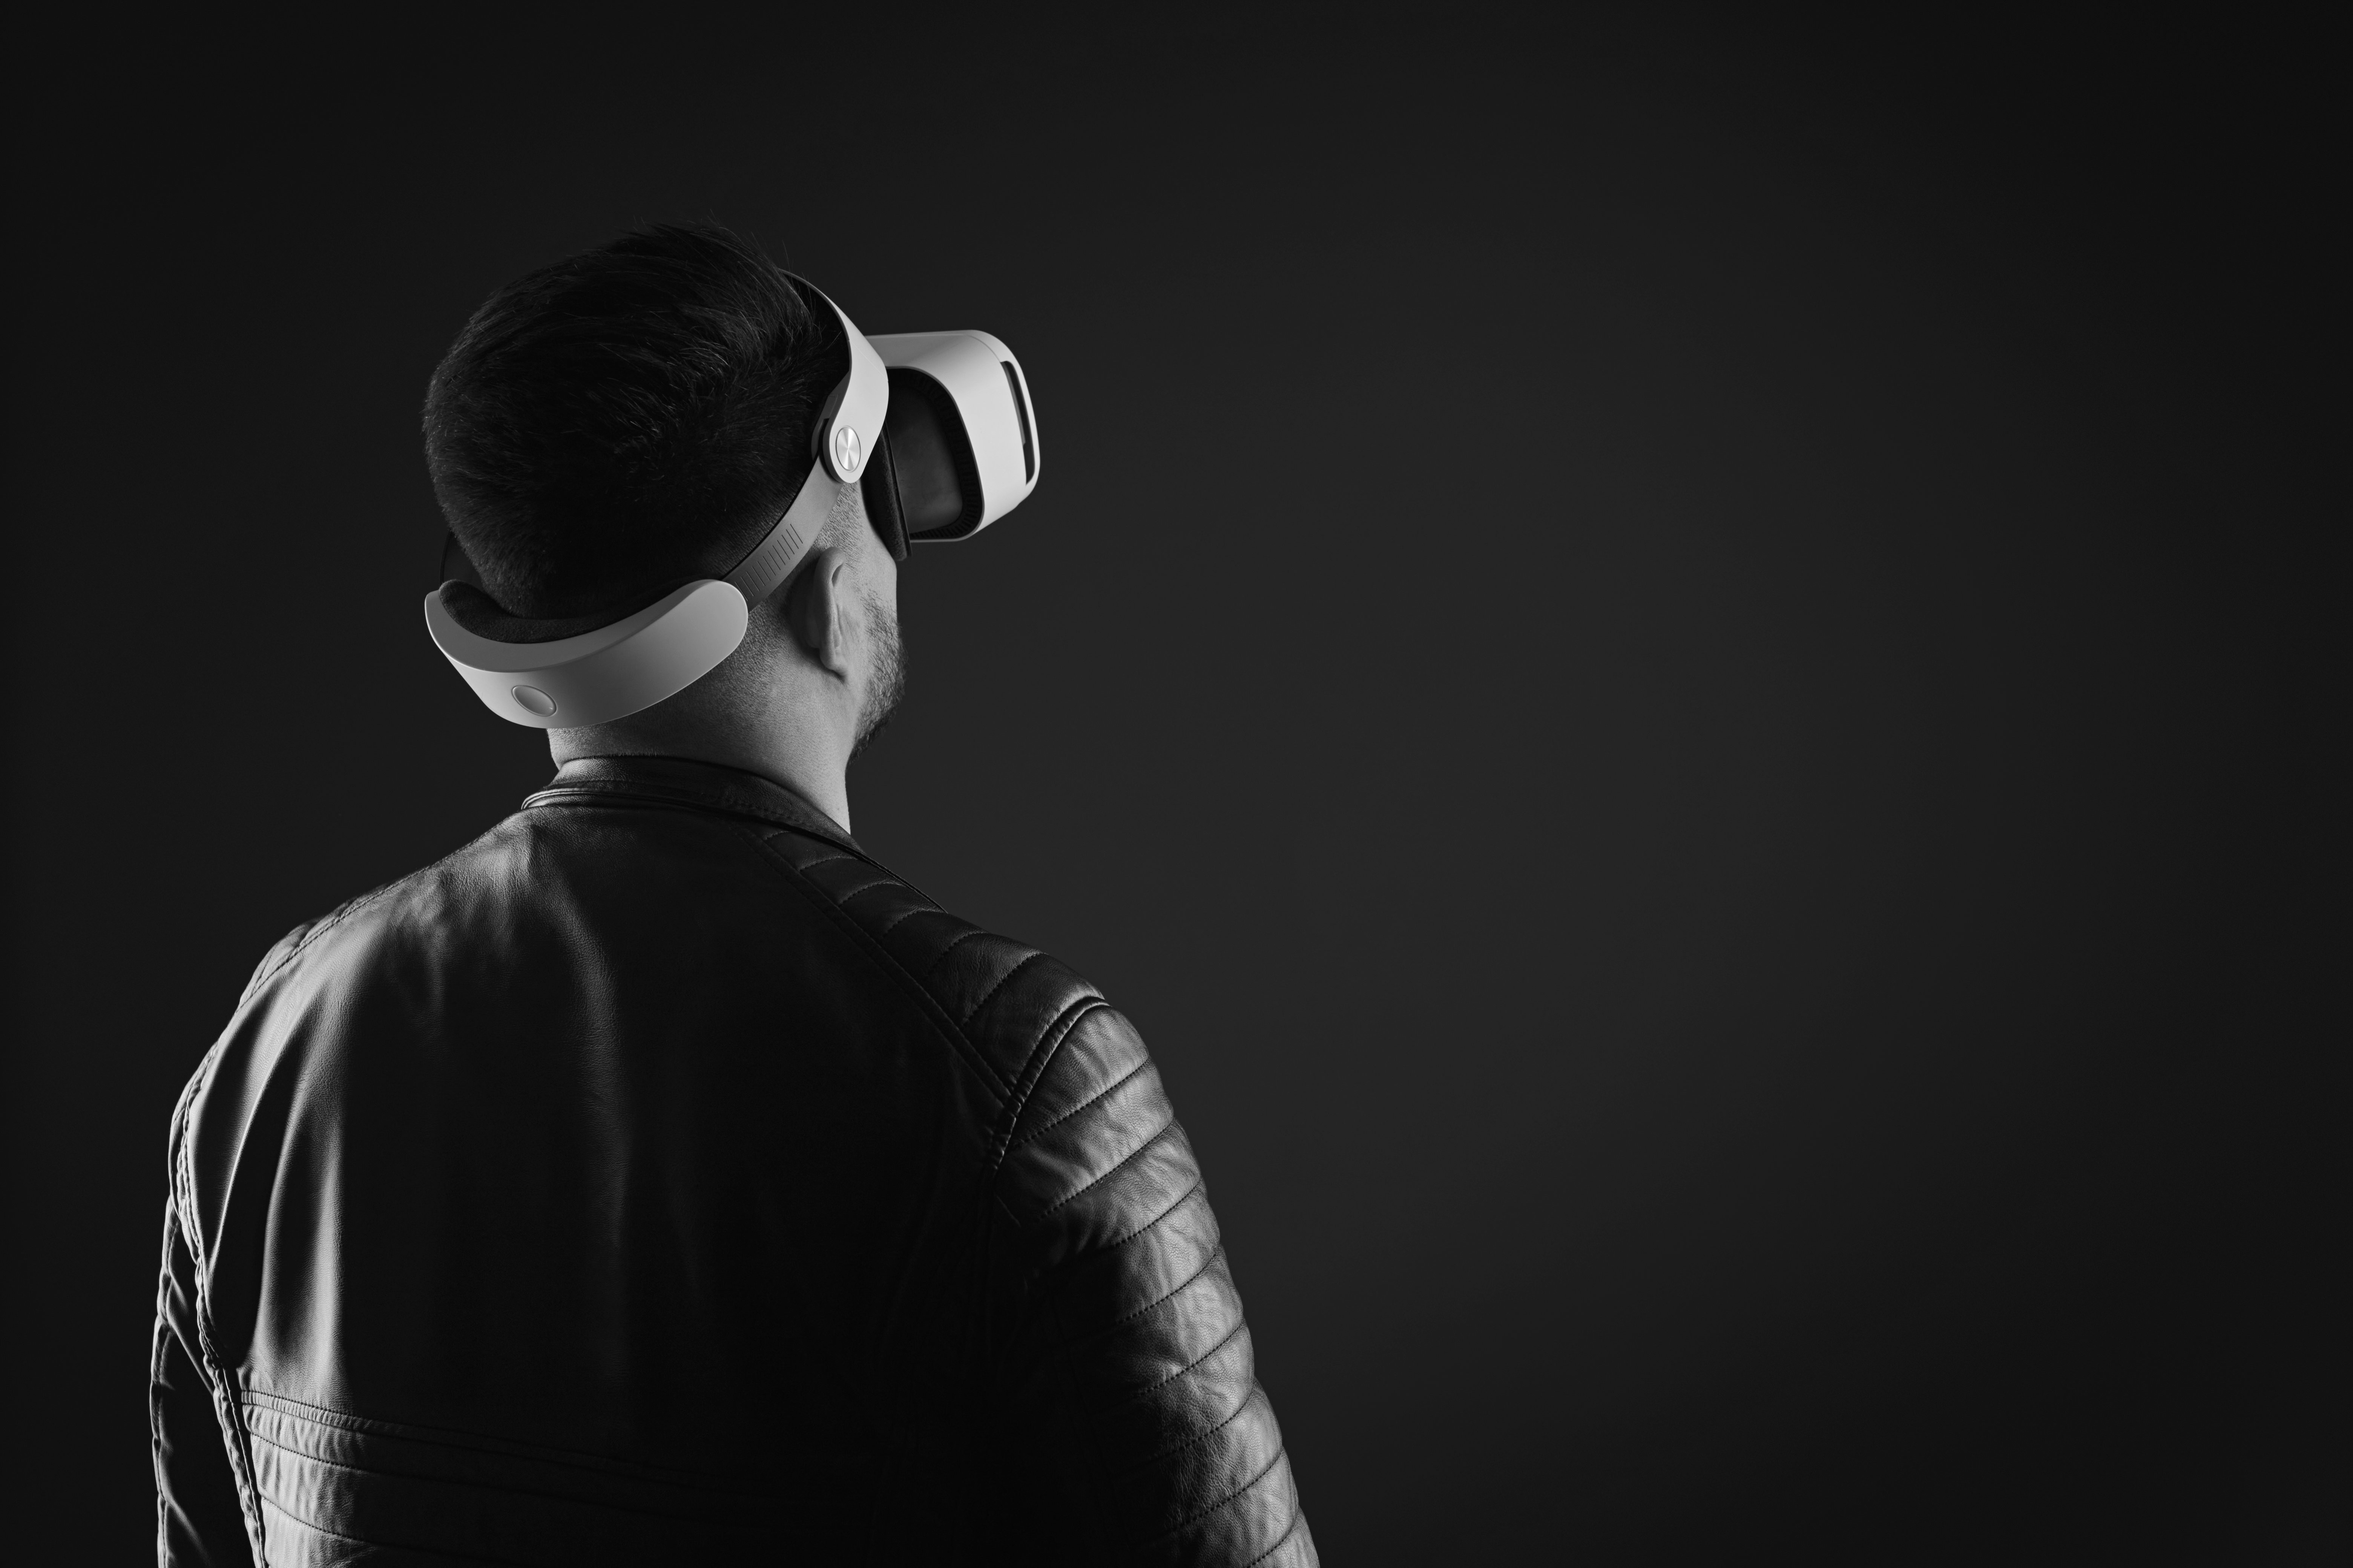
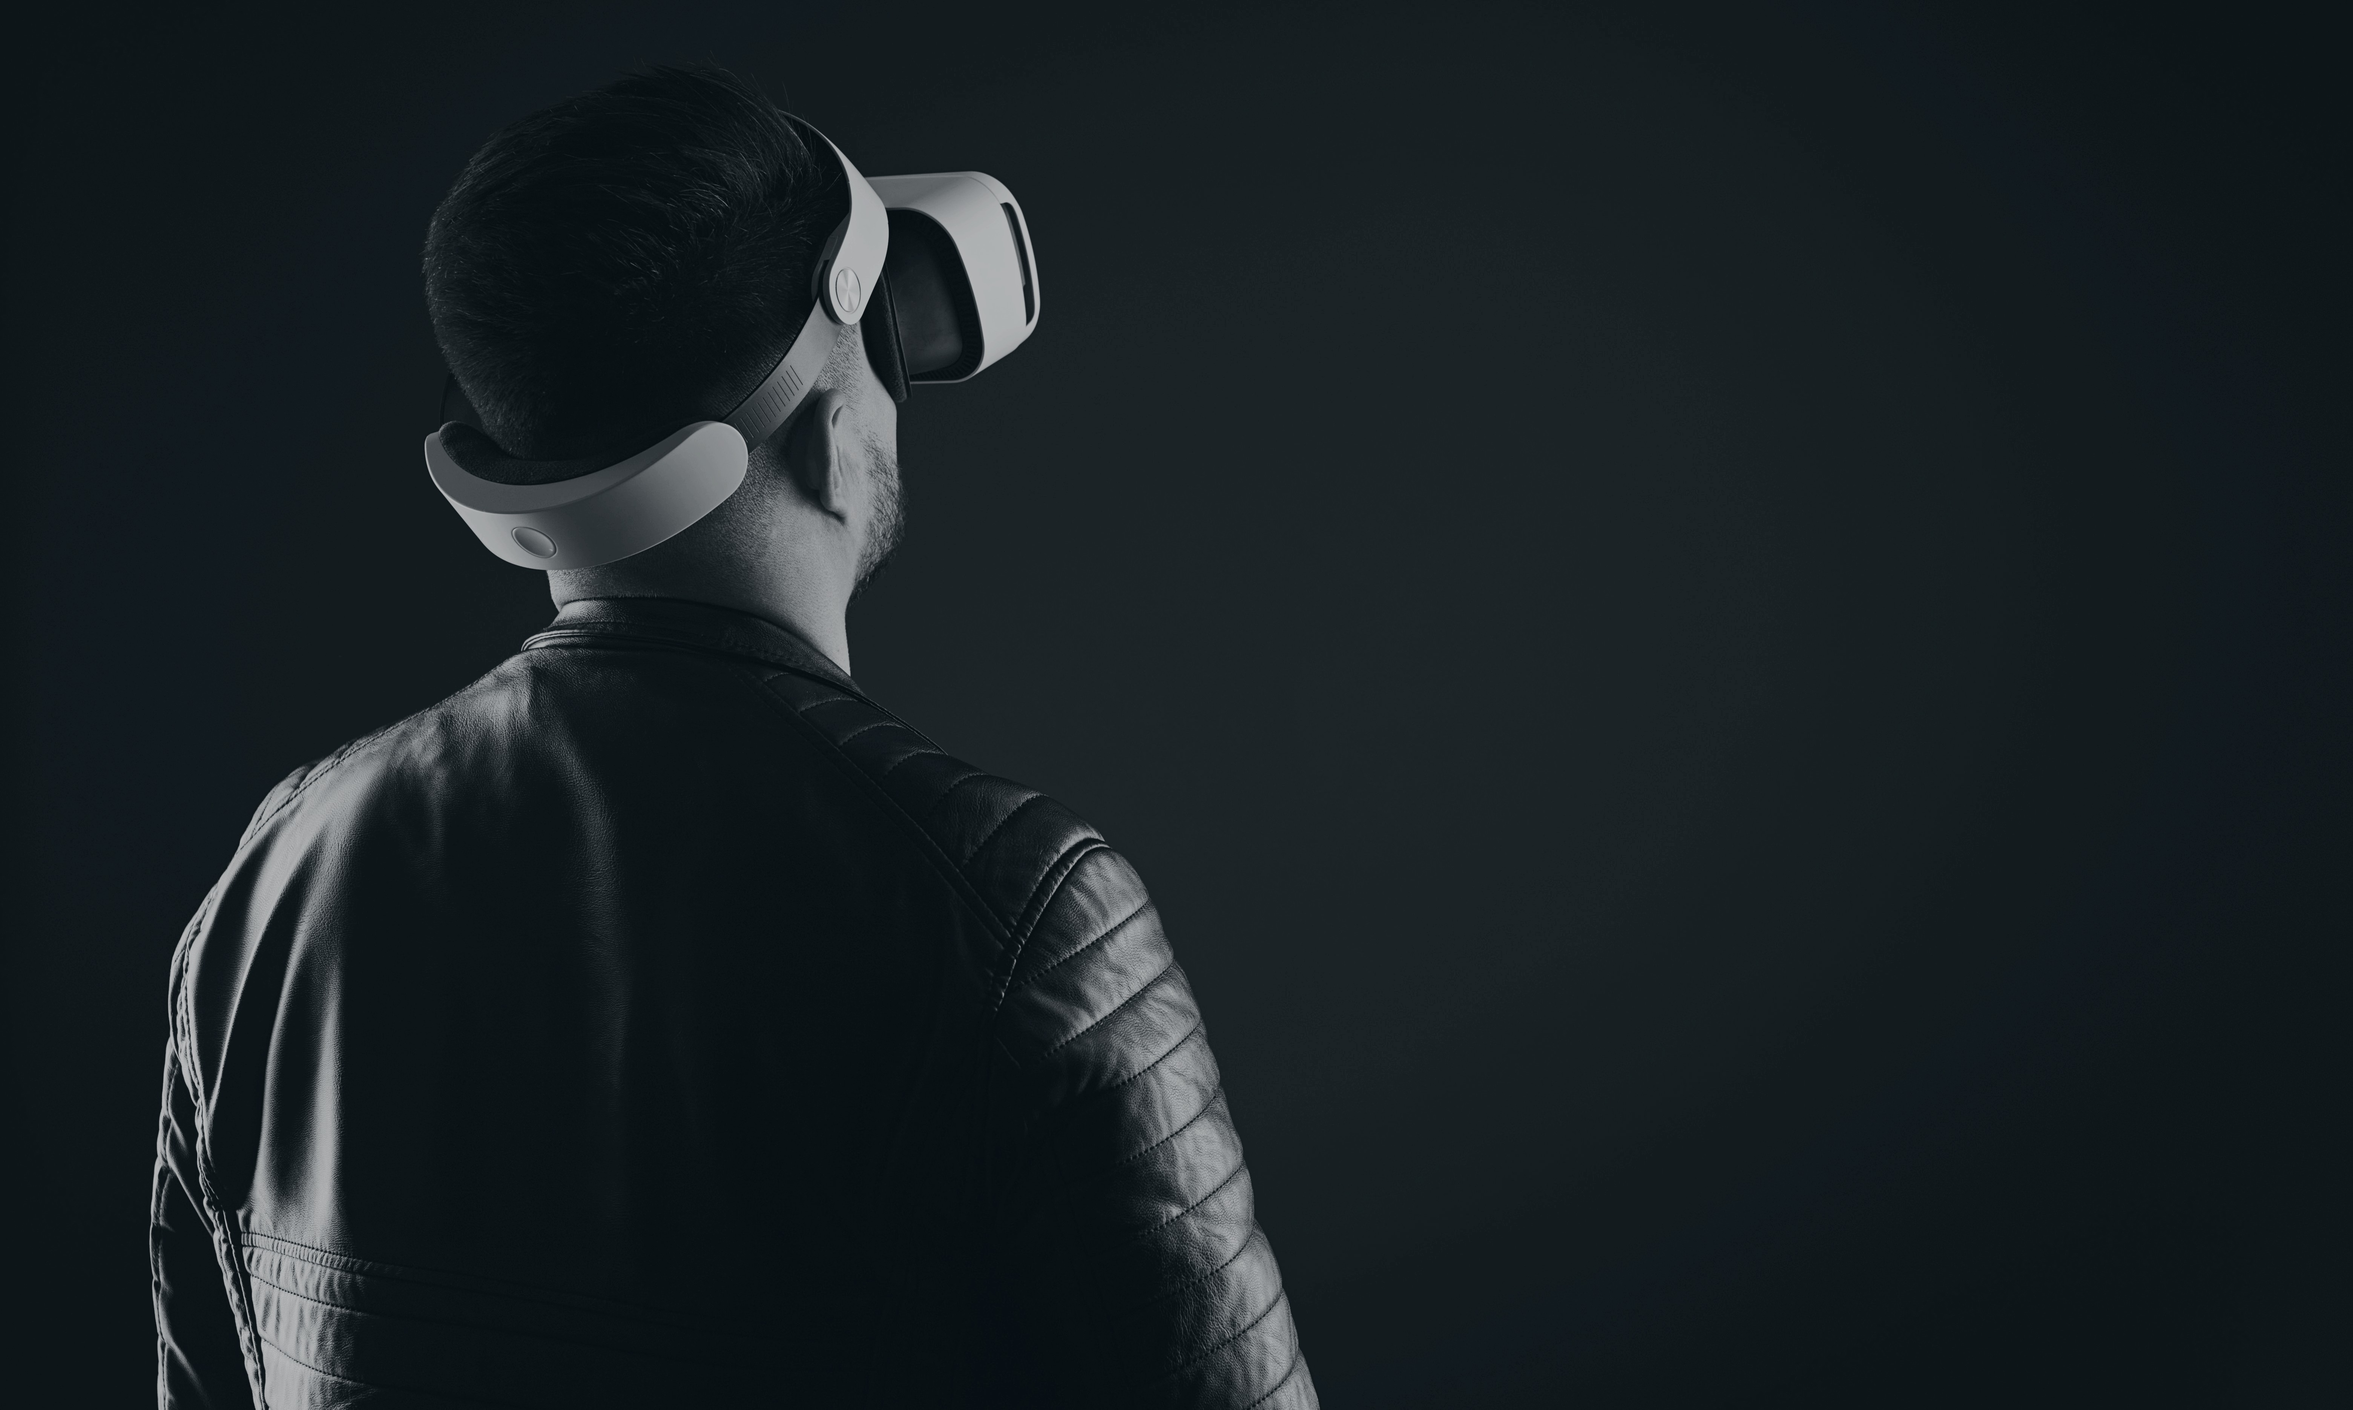
edited portfolio

Changed region(s): [[0.0625, 0.0931, 0.5625, 1.0], [0.1875, 0.1861, 0.2188, 0.2172]]

diff --git a/src/components/Portfolio.js b/src/components/Portfolio.js
@@ -9,7 +9,7 @@ export default function Portfolio() {
 
   return (
     <section id="portfolio" className="portfolio__section">
-        <h1 className="portfolio__header">What we do</h1>
+        <h1 className="portfolio__header">What we do.</h1>
         <div className="portfolio__wrapper">
           <div className="portfolio__video__wrapper">
             <div className="portfolio__video">
@@ -17,7 +17,7 @@ export default function Portfolio() {
             </div>
             <div className="portfolio__video__text">
               <span>Lorem ipsum dolor sit amet, consectetur adipiscing elit. Sed accumsan, urna eu viverra pharetra, enim justo pharetra tellus, nec rhoncus nisi nunc non purus. Aliquam.</span>
-              <button className="portfolio__button">Watch here</button>
+              <button className="portfolio__button">Watch video</button>
             </div>
           </div>
           <div className="portfolio__video__wrapper">
@@ -26,7 +26,7 @@ export default function Portfolio() {
             </div>
             <div className="portfolio__video__text">
               <span>Lorem ipsum dolor sit amet, consectetur adipiscing elit. Maecenas cursus dui est, in fermentum nisl pellentesque eget. Nunc pellentesque aliquam tellus id volutpat. Aliquam porta.</span>
-              <button className="portfolio__button">Watch here</button>
+              <button className="portfolio__button">Watch video</button>
             </div>
           </div>
           <div className="portfolio__video__wrapper">
@@ -35,12 +35,12 @@ export default function Portfolio() {
             </div>
             <div className="portfolio__video__text">
               <span>Lorem ipsum dolor sit amet, consectetur adipiscing elit. Maecenas odio risus, gravida nec elit at, vestibulum gravida orci. Proin id augue sem. Duis vel nisl.</span>
-              <button className="portfolio__button">Watch here</button>
+              <button className="portfolio__button">Watch video</button>
             </div>
           </div>
         </div>
         <p>
-          Are you curious about what we can do for you?<br />
+          Are you curious about what we can do for you? &nbsp;
           <a href="#contact">Contact us</a> and let's make something special.
         </p>
     </section>

diff --git a/src/components/Portfolio.css b/src/components/Portfolio.css
@@ -9,7 +9,8 @@
     background: url('../assets/portfolio-bg.jpg');
     background-size: cover;
     background-position: center;
-    color: #c6b893;
+    color: #CCCCCC;
+    position: relative;
     font-family: 'Poppins', sans-serif;
 }
 
@@ -29,14 +30,14 @@
 
 .portfolio__header {
     color: #CCCCCC;
-    font-size: 2.75em;
+    font-size: 2em;
     font-weight: 500;
     width: 100%;
     max-width: 75em;
     text-align: center;
     padding-block-start: 1em;
     padding-block-end: 0.5em;
-    text-transform: capitalize;
+    text-transform: uppercase;
     text-shadow: 2px 2px black;
 }
 
@@ -49,9 +50,7 @@
     align-items: center;
     flex-wrap: wrap;
     max-width: 100%;
-    padding: 2em;
-    background-color: rgba(34,34,34,0.5);
-    box-shadow: 1px 1px 15px 1px rgba(0, 0, 0, 0.1);
+    gap: 2em;
 }
 
 .portfolio__video__wrapper {
@@ -62,6 +61,10 @@
     gap: 1em;
     margin: 0 auto;
     padding-block-start: 3em;
+    padding: 2em;
+    background-color: rgba(35,40,44, 0.5);
+    box-shadow: 2px 2px 1px 0px rgba(0, 0, 0, 0.1);
+    border-radius: 15px;
 }
 
 .portfolio__video__text {
@@ -89,20 +92,25 @@ video {
     height: 2.5em;
     width: 10em;
     margin: 0 auto;
-    background-color: rgba(34,34,34,255);
-    box-shadow: 1px 1px 15px 1px rgba(0, 0, 0, 0.1);
-    border: 2px solid #CCCCCC;
+    background-color: inherit;
+    box-shadow: 2px 2px 15px 1px rgba(0, 0, 0, 0.1);
+    border: 2px solid #c6b893;
     border-radius: 2em;
-    color: #CCCCCC;
+    color: #c6b893;
     font-family: 'Poppins', sans-serif;
     font-weight: 500;
     cursor: pointer;
+    text-shadow: 2px 2px black;
 }
 
 @media screen and (min-width: 600px) {
     .portfolio__video__wrapper {
         flex-direction: row;
         padding-block-start: 1em;
+    }
+
+    .portfolio__header {
+        font-size: 2.25em;
     }
 
     .portfolio__video__wrapper:nth-child(2) {
@@ -124,6 +132,11 @@ video {
         gap: 2em;
     }
 
+    .portfolio__button {
+        height: 3.5em;
+        width: 12.5em;
+    }
+
   }
 
   @media screen and (min-width: 1000px) {
@@ -131,4 +144,7 @@ video {
         gap: 6em;
     }
   
+    .portfolio__header {
+        font-size: 2.5em;
+    }
   }

diff --git a/src/App.js b/src/App.js
@@ -8,16 +8,11 @@ import AboutUs from "./components/AboutUs";
 import Contact from "./components/Contact";
 import Nav from "./components/Nav";
 import VideoModal from "./components/VideoModal";
-import React, {useState, useRef, useEffect} from 'react';
-import useOnScreen from './hooks/useOnScreen';
+import React, {useState} from 'react';
 
 
 function App() {
   const [expandMenu, setExpandMenu] = useState(false);
-  const [inView, setInView] = useState(false);
-  const ref = useRef();
-  const isVisible = useOnScreen(ref)
-
 
   const handleHamburgerClick = () => {
     setExpandMenu(prevExpandMenu => !prevExpandMenu);
@@ -27,25 +22,16 @@ function App() {
     setExpandMenu(false);
   }
 
-  useEffect(() => {
-    if (isVisible) {
-      setInView(true);
-    } else {
-      setInView(false);
-    }
-  }, [isVisible])
 
 
   return (
     <>
       <VideoModal />
       <header>
-        <Nav expandMenu={expandMenu} onHamburgerClick={handleHamburgerClick} onCloseMenu={handleCloseMenu} inView={inView} />
+        <Nav expandMenu={expandMenu} onHamburgerClick={handleHamburgerClick} onCloseMenu={handleCloseMenu}/>
       </header>
       <main className="main__content" >
-        <div ref={ref}>
-          <Homepage />
-        </div>
+        <Homepage />
         <Portfolio/>
         <ProductIntro />
         <Reviews />

diff --git a/src/components/Nav.js b/src/components/Nav.js
@@ -5,7 +5,7 @@ import hamburger from "../assets/menu-2.svg";
 import useOutsideClick from "../hooks/useOutsideClick.js";
 import useCloseOnEsc from '../hooks/useCloseOnEsc';
 
-export default function Nav({expandMenu, onHamburgerClick, onCloseMenu, inView}) {
+export default function Nav({expandMenu, onHamburgerClick, onCloseMenu}) {
     const ref = useRef();
 
     useOutsideClick(ref, () => onCloseMenu());
@@ -17,9 +17,8 @@ export default function Nav({expandMenu, onHamburgerClick, onCloseMenu, inView})
         // eslint-disable-next-line
     }, []);
 
-
     return (
-        <div className={inView && !expandMenu ? "nav__section nav__section__invis" : "nav__section nav__section__vis"}>
+        <div className="nav__section nav__section__vis">
             <div className="nav__logo__wrapper">
                 <a href="#homepage">
                     <img src={logo} className="nav__logo" alt="logo"/>

diff --git a/src/components/Nav.css b/src/components/Nav.css
@@ -11,17 +11,15 @@
     justify-content: space-between;
     align-items: center;
     padding: 0.7em;
-}
-
-.nav__section__vis {
-    background-color: rgba(34,34,34,255);
-    box-shadow: 1px 1px 15px 1px rgba(0, 0, 0, 0.1);
-}
-
-.nav__section__invis {
     background-color: inherit;
     box-shadow: none;
 }
+
+.nav__section__vis {
+    background-color: #23282c;
+    box-shadow: 1px 1px 15px 1px rgba(0, 0, 0, 0.1);
+}
+
 
 .nav__logo__wrapper {
     height: 100%;
@@ -80,7 +78,7 @@
     left: 0;
     width: 100%;
     height: 21em;
-    background-color: rgba(34,34,34,255);
+    background-color: #23282c;
     z-index: 5;
 }
 

diff --git a/src/App.css b/src/App.css
@@ -9,7 +9,7 @@ html {
 }
 
 body {
-  background-color: rgba(34,34,34,255);
+  background-color: rgba(35,40,44,255);
   height: 100%;
 }
 
@@ -29,13 +29,6 @@ body {
 
 .main__content::-webkit-scrollbar {
   display: none;
-}
-
-
-.main__content div > section {
-  height: 100vh;
-  padding-block-start: 4.75em;
-  scroll-snap-align: start;
 }
 
 .main__content > section {
